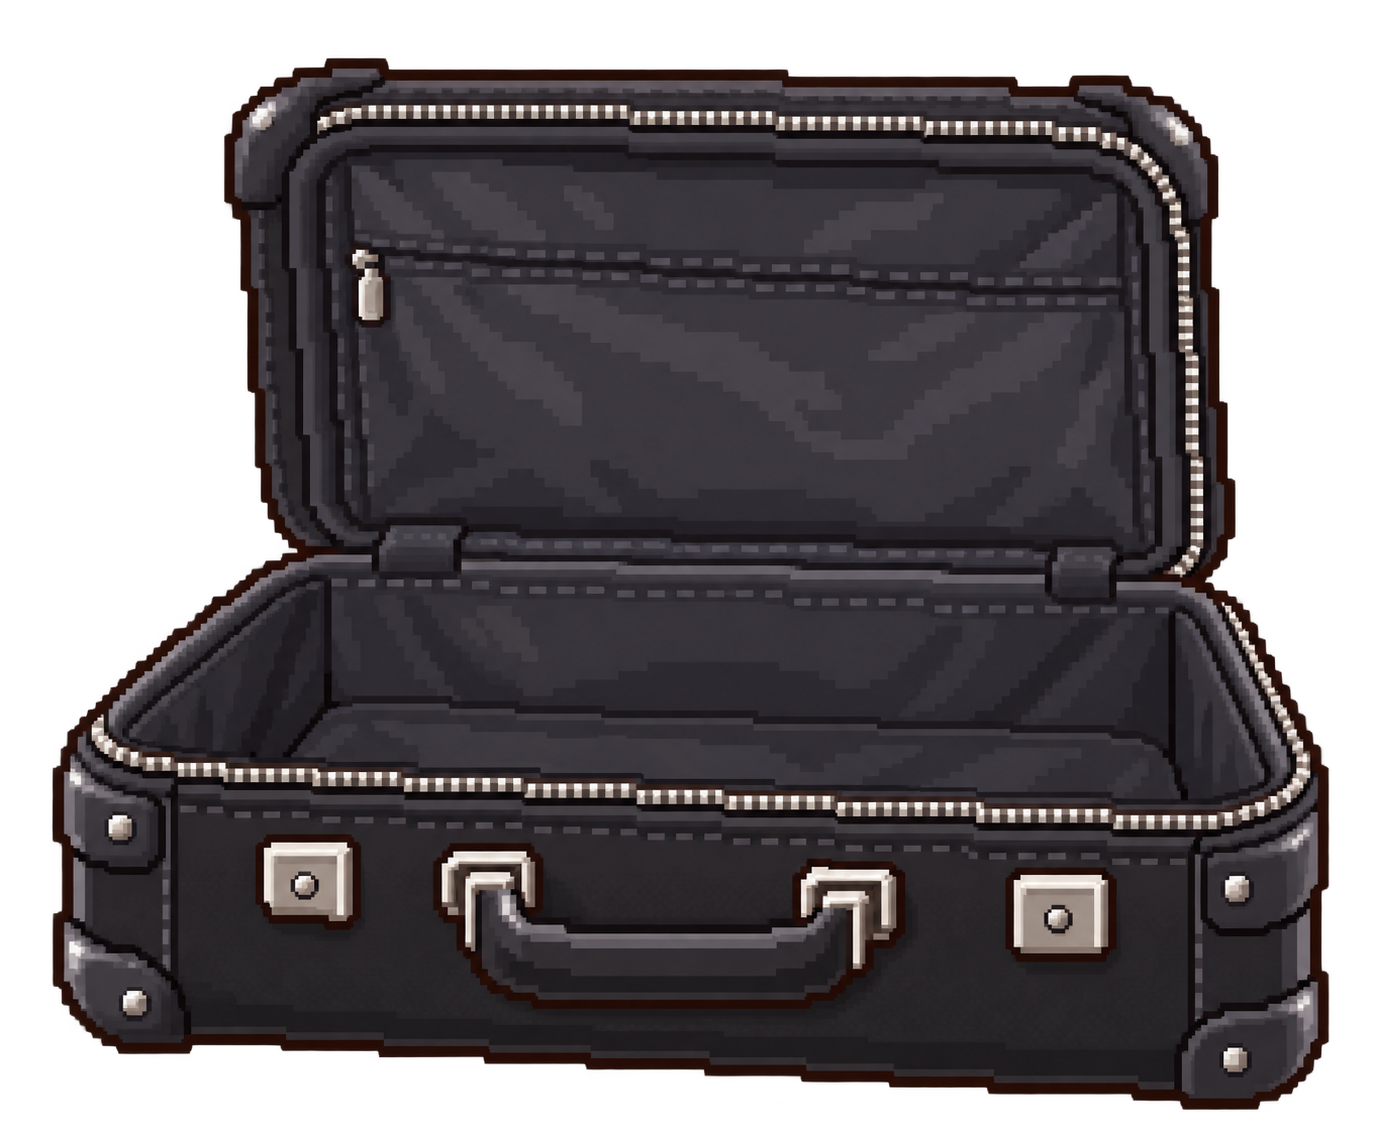
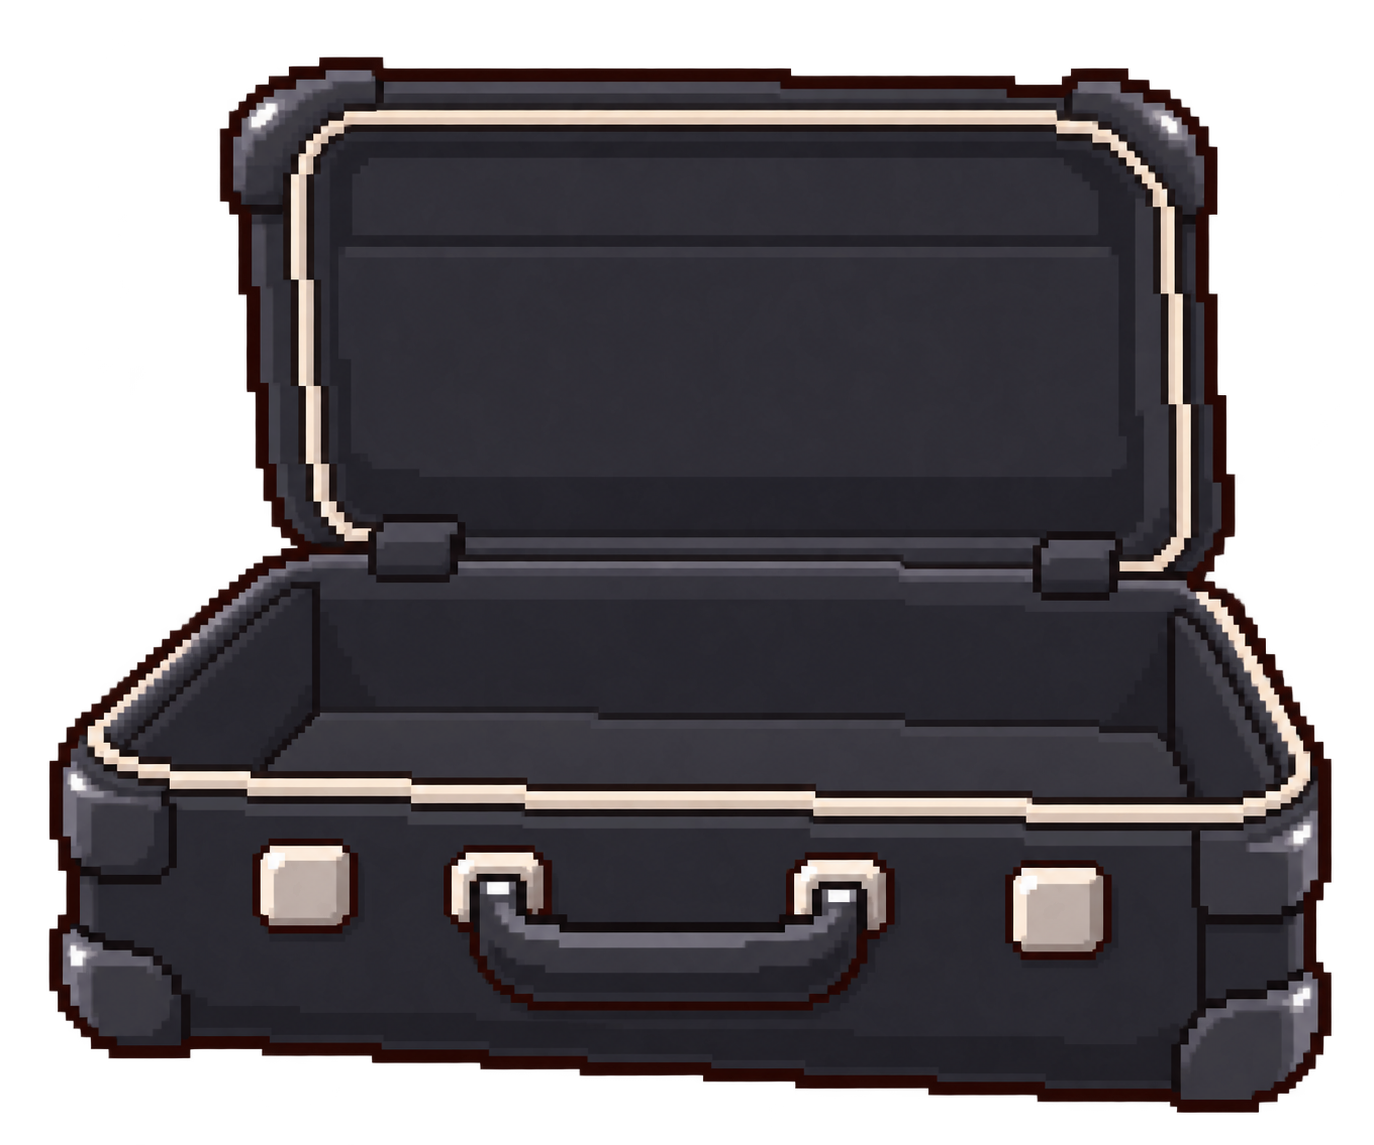
Simplify suitcase textures and use broader toy-like shading

diff --git a/assets/css/pakku-sandbox.css b/assets/css/pakku-sandbox.css
@@ -41,7 +41,7 @@ body { padding-bottom: max(28px, env(safe-area-inset-bottom)); }
 .pakku-sandbox::before { left: 3px; }
 .pakku-sandbox::after { right: 3px; transform: scaleX(-1); }
  .sandbox-suitcase { position: absolute; left: 5%; bottom: 24px; width: min(30%, 100px); aspect-ratio: 96 / 80; height: auto; border: 0; padding: 0; background: transparent; cursor: pointer; touch-action: manipulation; }
-.suitcase-art { display: block; width: 100%; height: 100%; background: url('../images/pakku-suitcase.png') center / contain no-repeat; image-rendering: pixelated; pointer-events: none; }
+.suitcase-art { display: block; width: 100%; height: 100%; background: url('../images/pakku-suitcase.png?v=2') center / contain no-repeat; image-rendering: pixelated; pointer-events: none; }
 .suitcase-art > span { display: none; }
 .toy-slot .suitcase-art { width: 54px; height: 45px; margin: 3px 0; }
 .sandbox-suitcase:focus-visible { outline: 2px solid #9380b2; outline-offset: 8px; border-radius: 12px; }

diff --git a/pakku.html b/pakku.html
@@ -10,7 +10,7 @@
 <script src="assets/js/auth-guard.js?v=1"></script>
 <link rel="stylesheet" href="assets/css/base.css?v=4" />
 <link rel="stylesheet" href="assets/css/pixel-companions.css?v=4" />
-<link rel="stylesheet" href="assets/css/pakku-sandbox.css?v=8" />
+<link rel="stylesheet" href="assets/css/pakku-sandbox.css?v=9" />
 </head>
 <body class="pakku-house-page">
 <main class="pakku-home">
